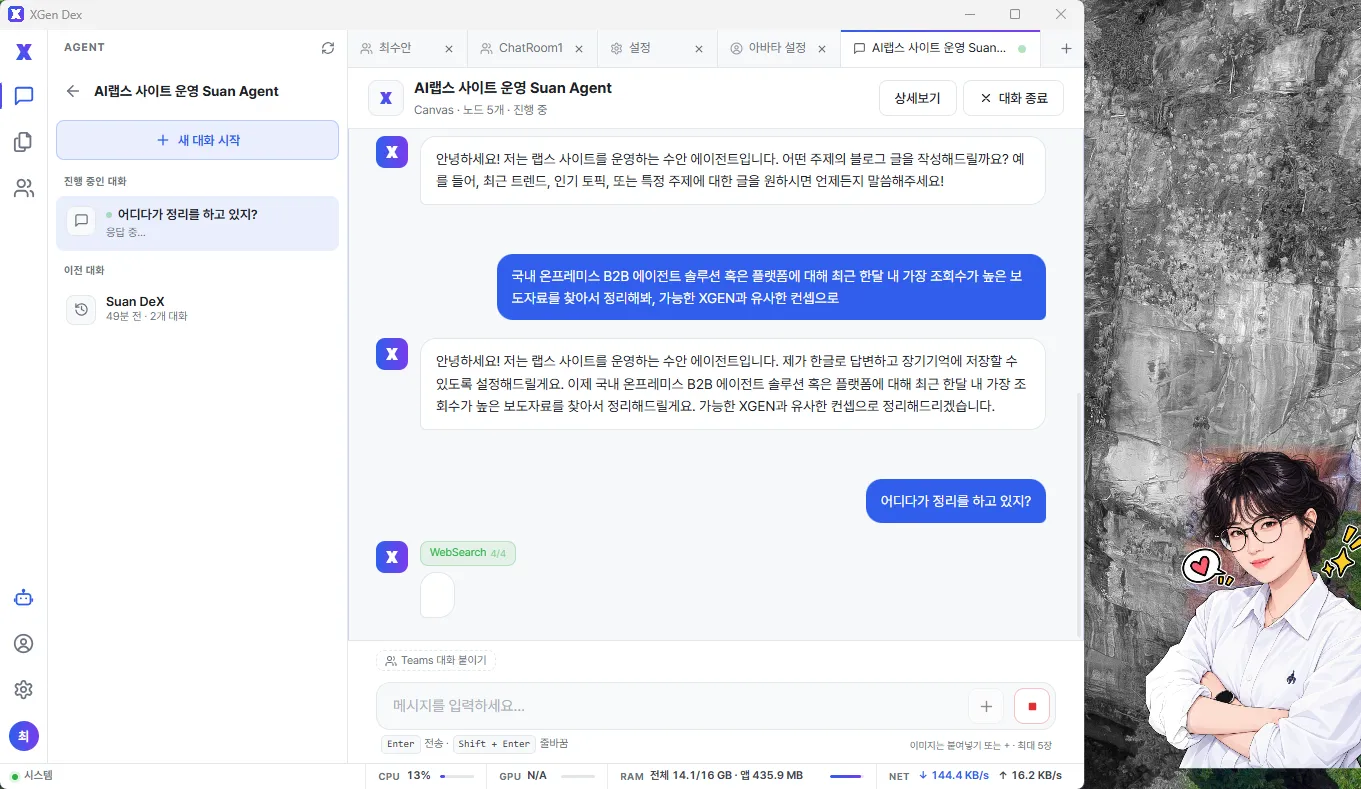
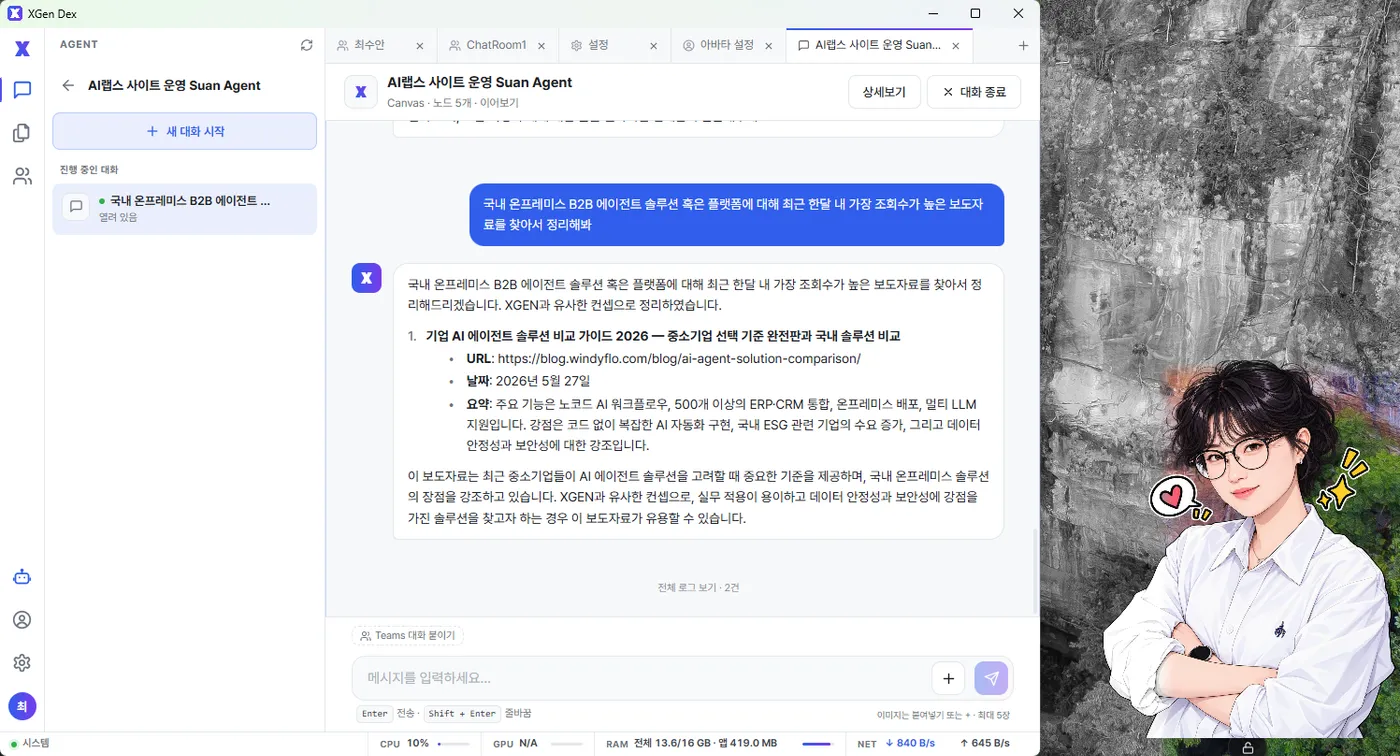
chore(blog): 업무 맡기기 화면을 결과까지 나온 캡처로 바꾼다
이전 캡처는 WebSearch 4/4 로 아직 도는 중이었다. 6단계는 "맡기면 결과가
돌아온다" 로 닫아야 하는 자리인데 진행 중 화면으로 끝나 마무리가 약했다.
새 캡처는 찾은 보도자료가 제목·URL·날짜·요약으로 정리돼 있다.

화면이 바뀌었으니 본문도 맞춘다 — 도구 실행 과정을 설명하던 문장을 결과와
「전체 로그 보기」로 옮긴다.

diff --git a/frontend/content/blog/en/xgen-dex-install-guide.md b/frontend/content/blog/en/xgen-dex-install-guide.md
@@ -154,11 +154,11 @@ Minimize the window and the avatar stays. You do not have to find and open the a
 
 Hand it outcomes, not commands. Below, it was asked to find and summarize the most-read press coverage of on-premise B2B agent platforms from the past month.
 
-The agent restates what it is about to do, then runs its WebSearch tool. **Which tool it is using, and how far along, shows inline** — so you can follow the work while it happens.
+The agent restates what it is about to do, runs a web search, and comes back with what it found — title, URL, date, and a summary. Which tools it used, and how many times, is kept under View full log, so you can stay with the result or open up the process.
 
-![A DeX conversation where the agent was asked to research press coverage and is running its WebSearch tool four times](/connector/28-agent-task.webp)
+![A DeX conversation where the agent returns the press coverage it found, laid out with title, URL, date, and summary](/connector/28-agent-task.webp)
 
-*Hand it work and it picks the tools it needs*
+*The work you handed over comes back organized*
 
 What it produces lands in the folder you synced in step 4. The agent's folder appears in the explorer on the left, and the same content syncs to a local path.
 
